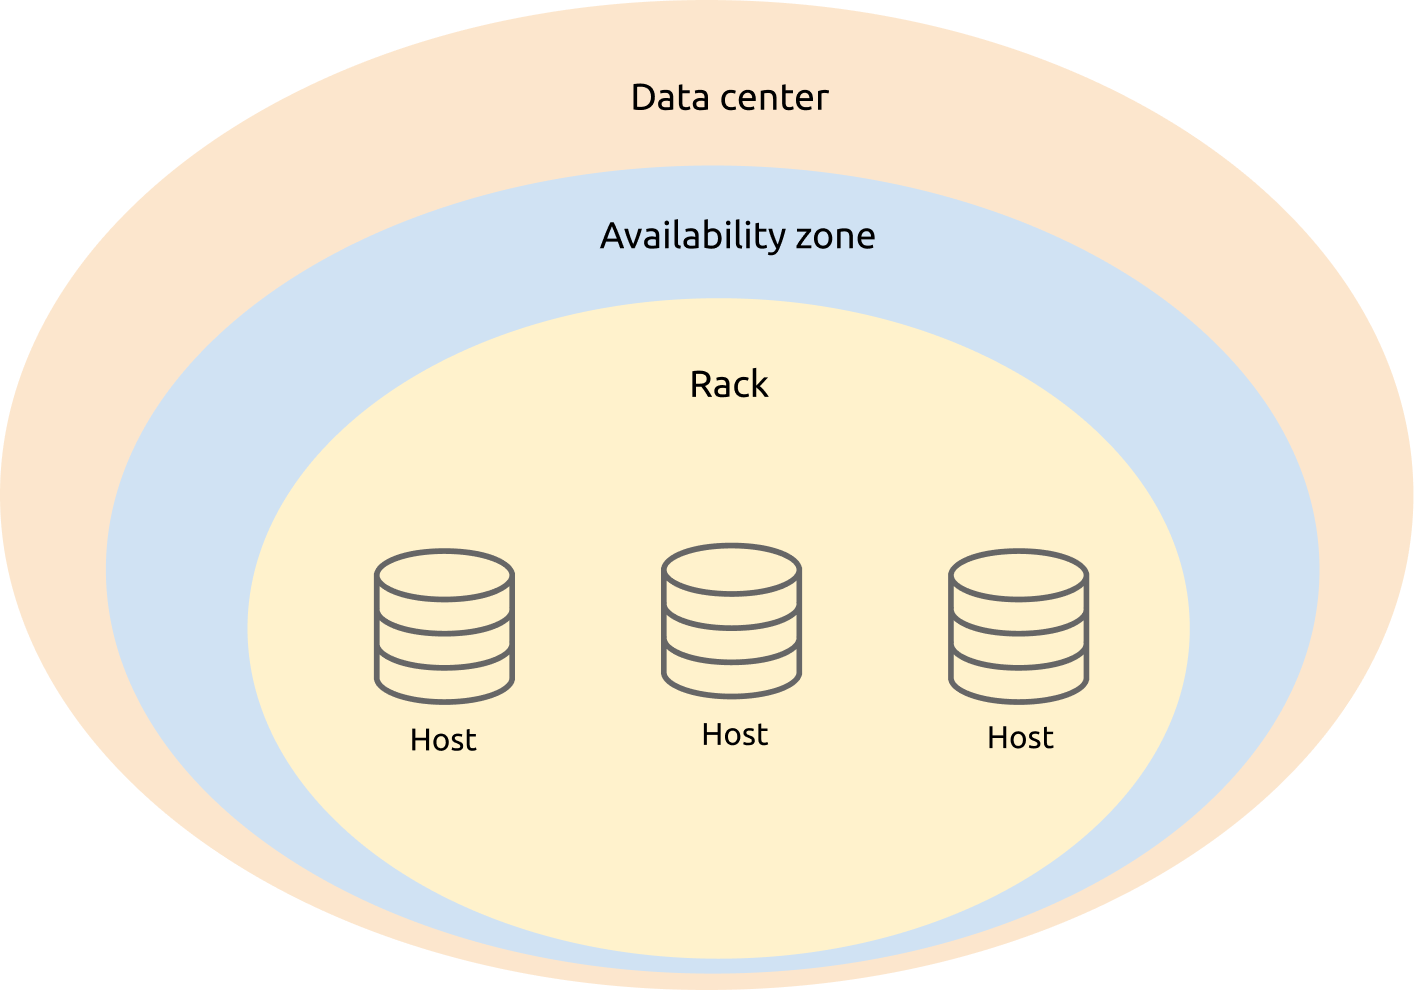
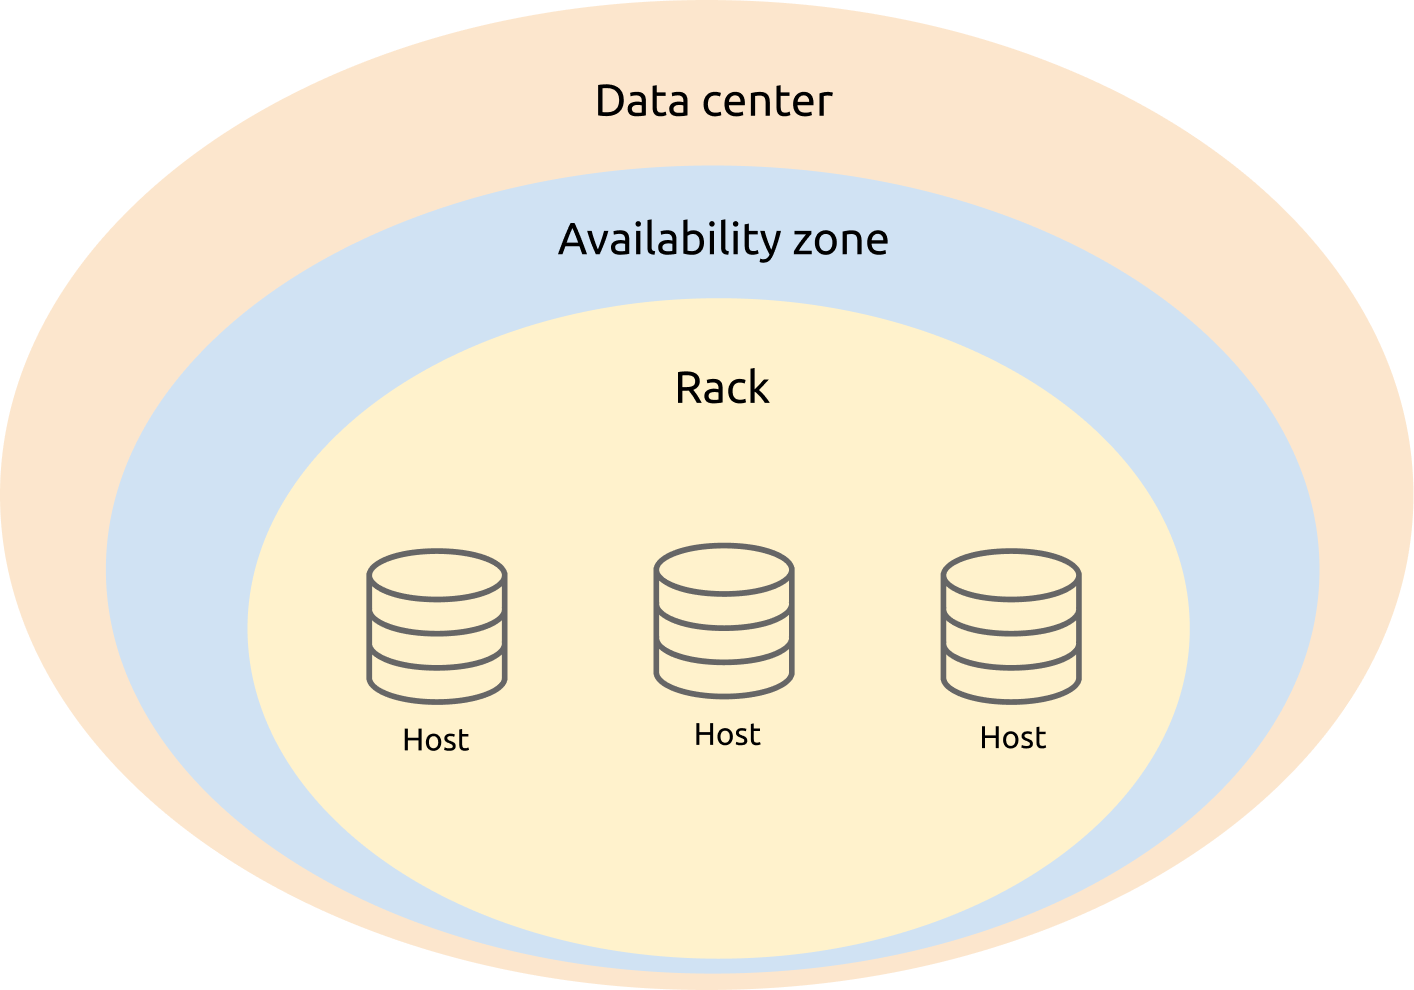
refine image03

diff --git a/three-data-centers-in-two-cities-deployment.md b/three-data-centers-in-two-cities-deployment.md
@@ -129,6 +129,8 @@ alertmanager_servers:
 
 ![label 逻辑定义图](/media/three-data-centers-in-two-cities-deployment-03.png)
 
+<img src="./media/three-data-centers-in-two-cities-deployment-03.png" width="90%" alt="label 逻辑定义图" />
+
 PD 设置中添加 TiKV label 的等级配置。
 
 ```
